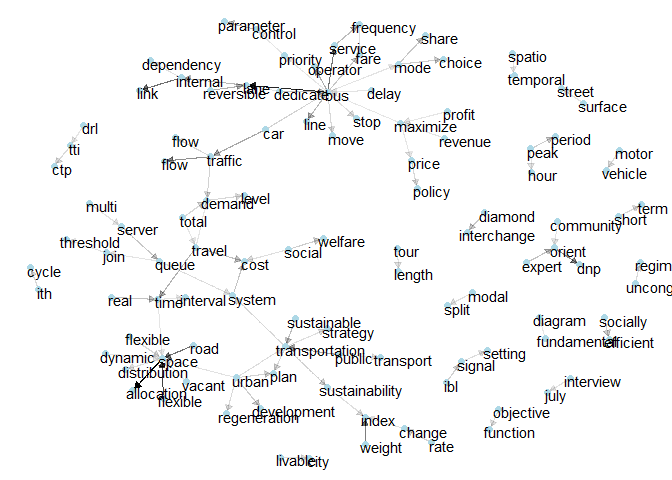
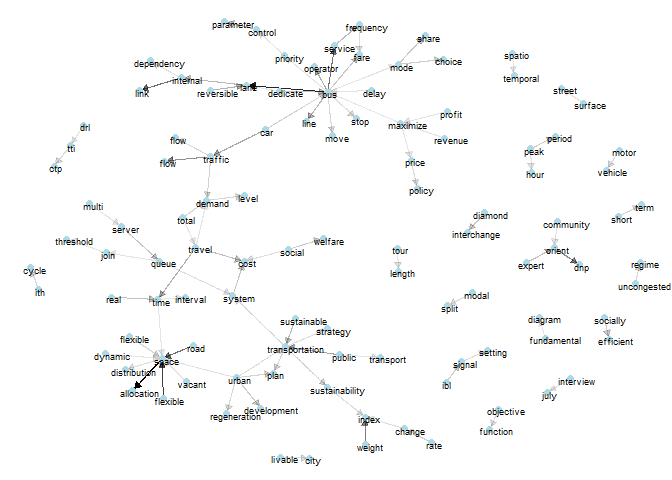
bigram

diff --git a/LDA_Bigrams_Full_Papers.md b/LDA_Bigrams_Full_Papers.md
@@ -237,7 +237,7 @@ ggraph(bigram_network, layout = "fr") +
   geom_edge_link(aes(edge_alpha = n), show.legend = FALSE,
                  arrow = a, end_cap = circle(.03, 'inches')) +
   geom_node_point(color = "lightblue", size = 2) +
-  geom_node_text(aes(label = name), vjust = .7, hjust = 0.1) +
+  geom_node_text(aes(label = name), vjust = .7, hjust = 0.3, size=2.5) +
   theme_void()
 ```
 
